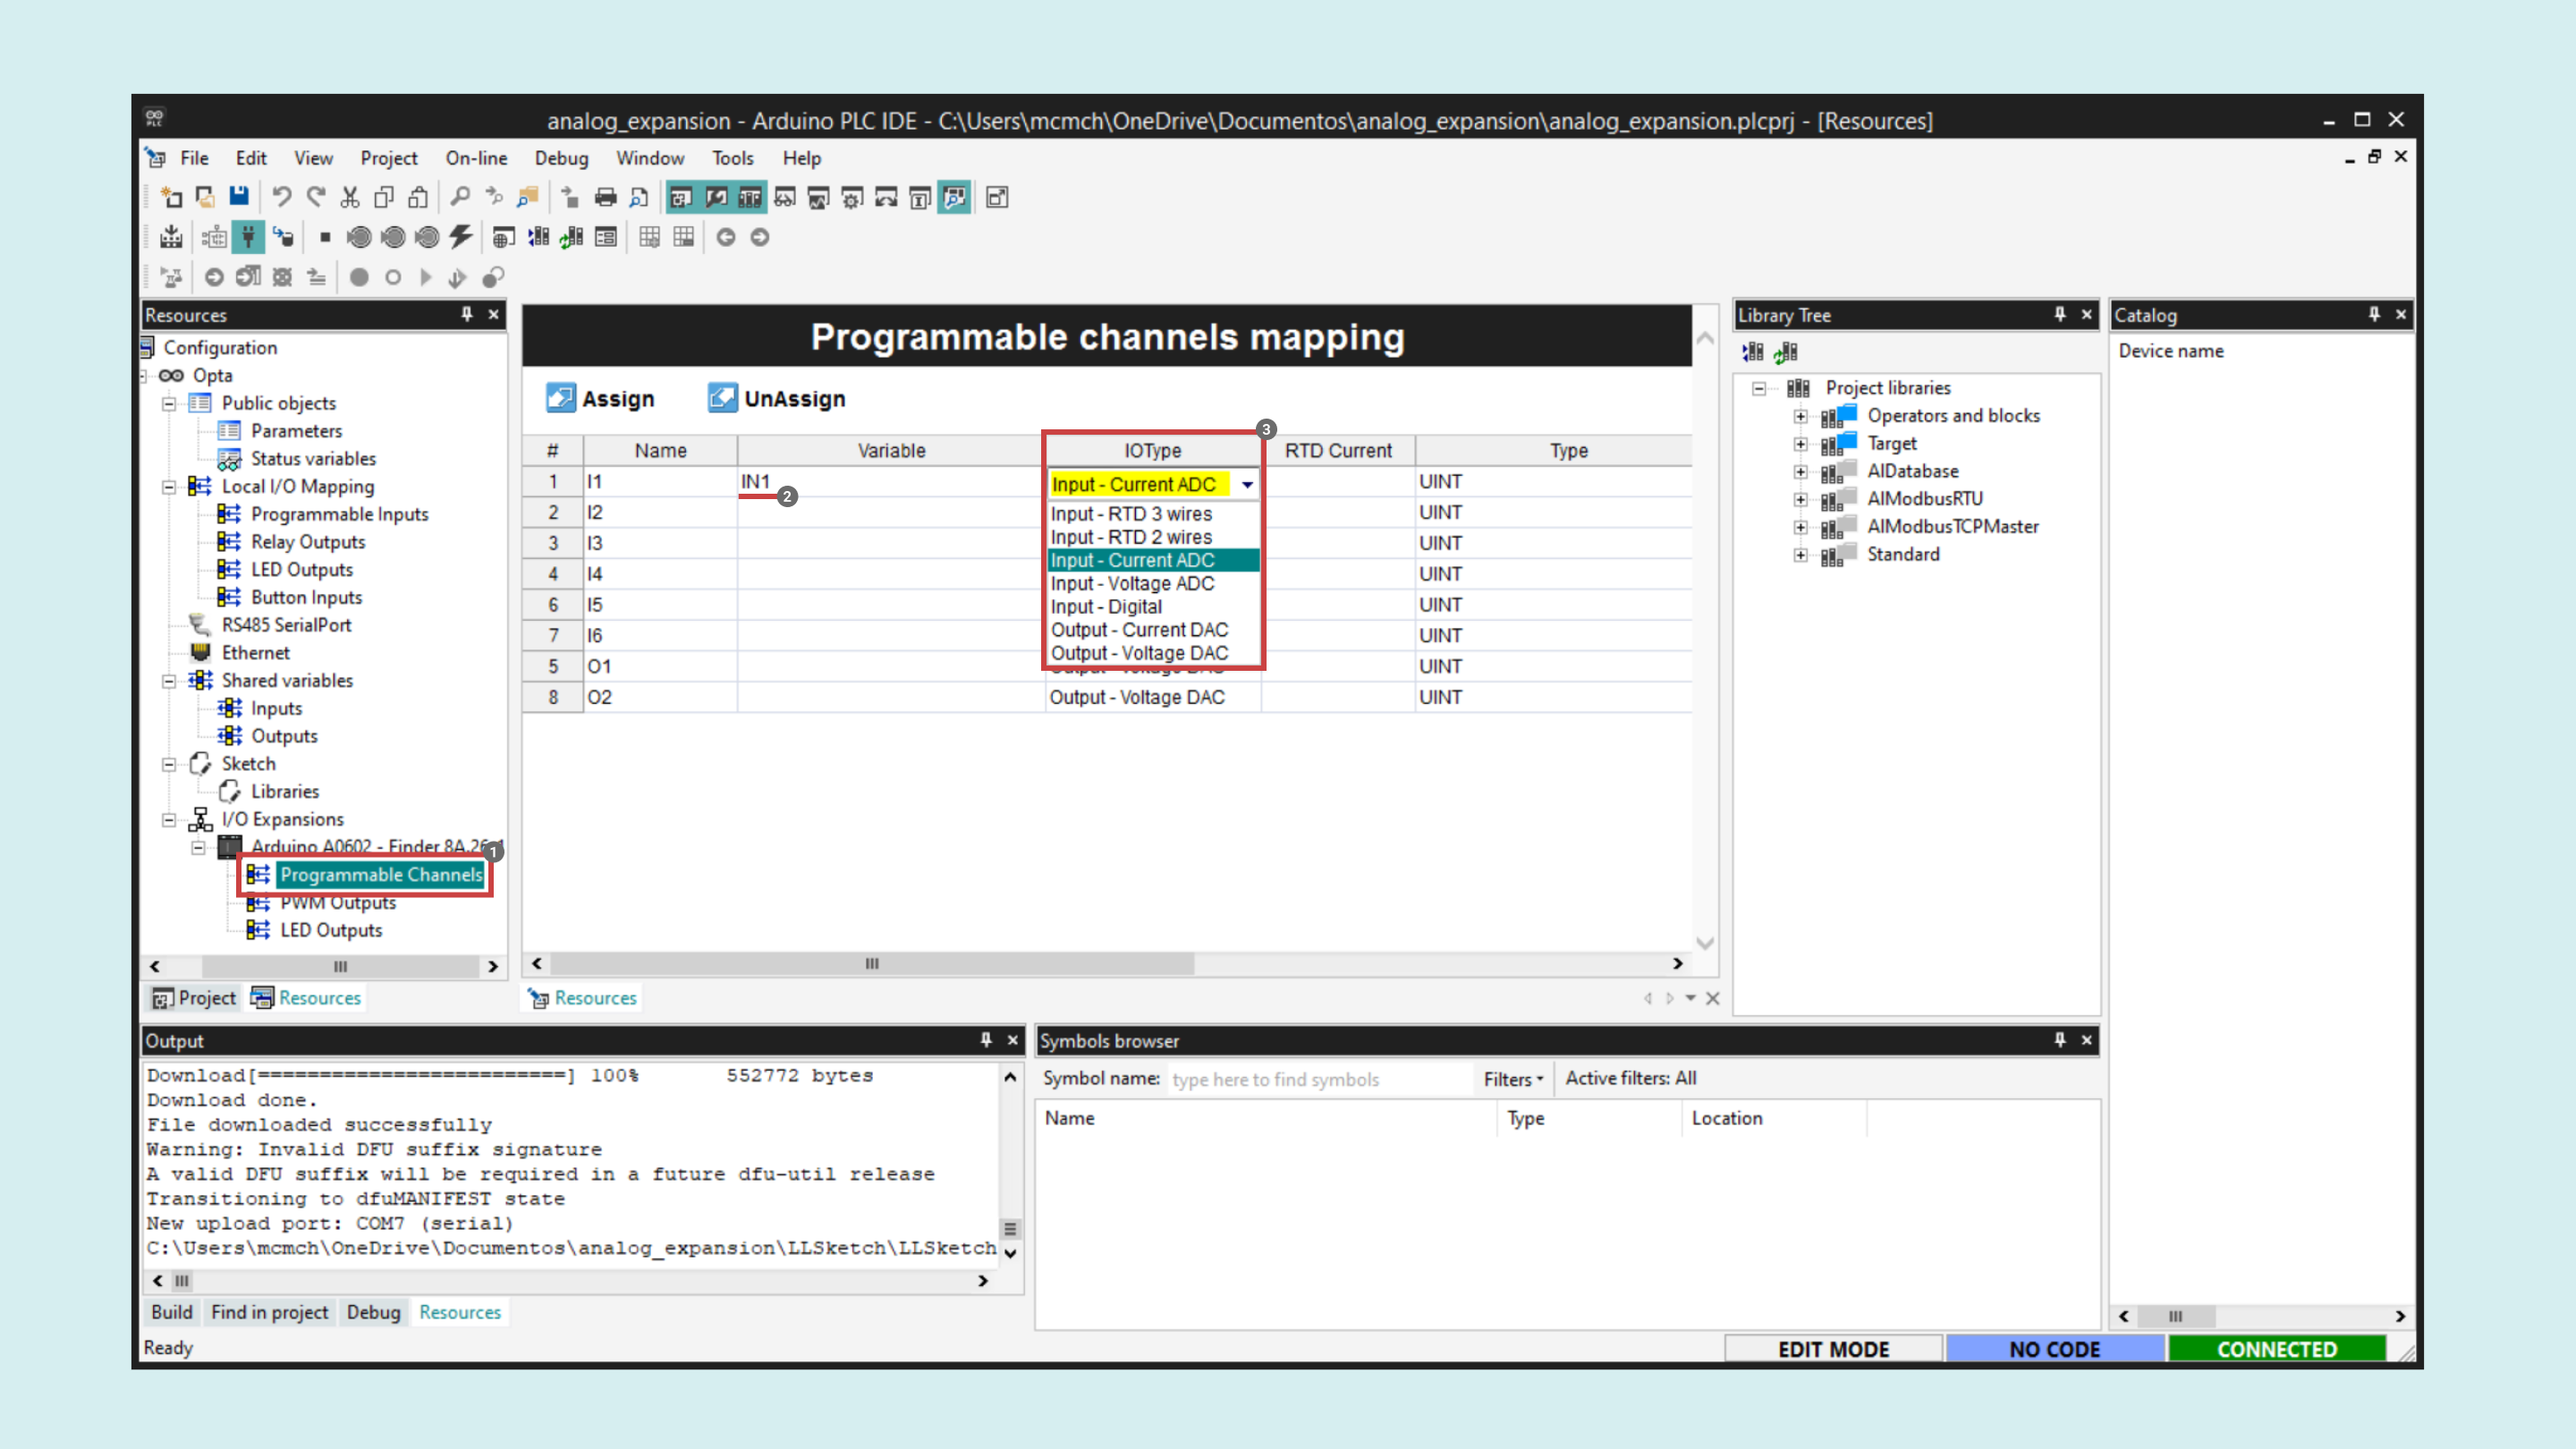
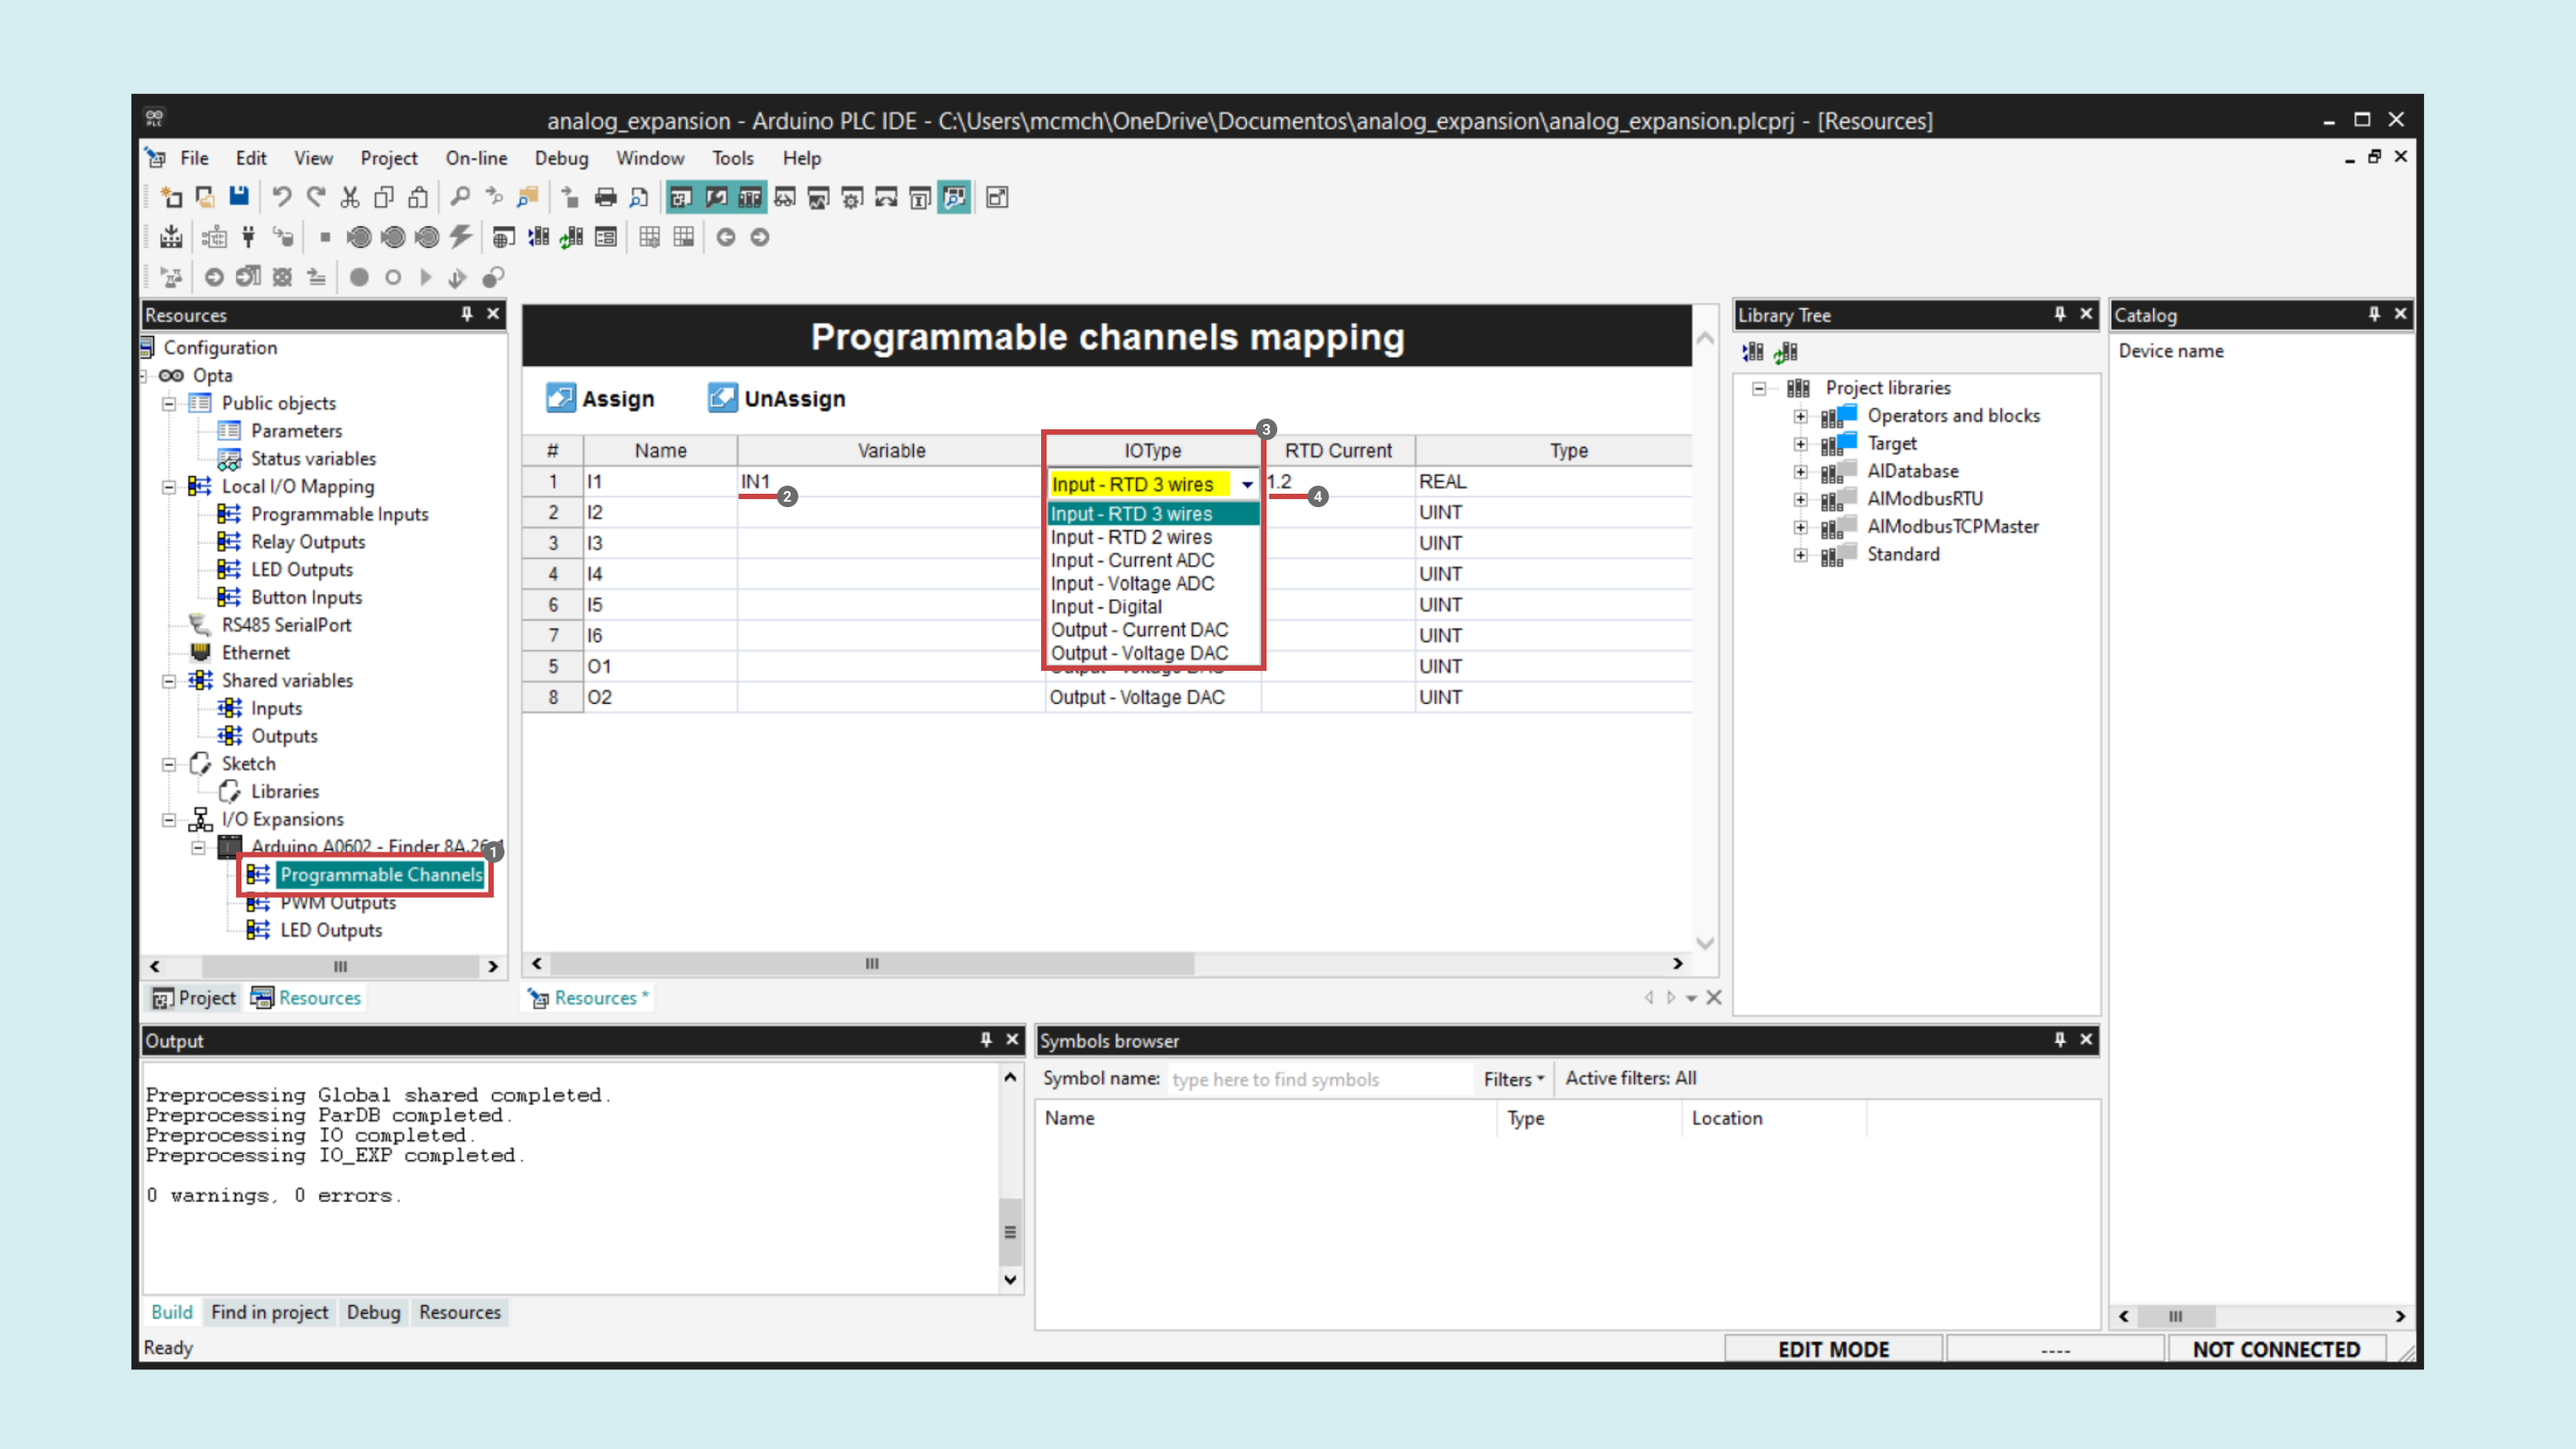
formula for current

diff --git a/content/hardware/07.opta/opta-family/opta/tutorials/18.opta-analog-expansion-plc-ide/content.md b/content/hardware/07.opta/opta-family/opta/tutorials/18.opta-analog-expansion-plc-ide/content.md
@@ -167,7 +167,46 @@ V_IN1 := IN1*10.0/65536.0;
 
 ### Analog Current Input Mode
 
+To set up an input in current mode, navigate to **Programmable Channels** under your desired expansion in the left **Resources** menu. Define a variable name, `IN1` in this case and set the **IOType** to `Input - Current ADC`.
+
+![Current Input Configuration](assets/plc-ide-10.png)
+
+Now you can easily read this input current in your program. For example in a **Structured Language** program:
+
+- Open your project main program navigating to the **Project** tab in the left panel, select **Main** in the project tree, and right-click on the **Local variables** window to insert a variable.
+
+![Insert a local variable](assets/local-var.png)
+
+Insert the following variable with it respective _type_ to store the input voltage:
+
+| **Name** | **Type** |
+| :------: | :------: |
+|  I_IN1   |   REAL   |
+
+![Insert a local variable](assets/local-var-3.png)
+
+- In the main code editor add the following formula to convert the ADC raw reading to a current and store it in the `I_IN1` variable.
+
+```
+I_IN1 := IN1*(5.0/65536.0); 
+I_IN1 := I_IN1 - 2.5;
+I_IN1 := I_IN1 / 100.0;
+I_IN1 := I_IN1 * 1000.0; //convert to mA
+```
+
+***The analog channel in current mode can measure up to 10 VDC and the ADC resolution is 16 bit, this is why we use the 65536 constant that corresponds to 2<sup>16</sup>.***
+
+- Upload the program to your Opta and enable the **Live Debug Mode** to see the analog readings updating in real-time.
+
+![Analog Voltage Input Demo](assets/voltage-in-ani.gif)
+
 ### Analog RTD Input Mode
+
+To set up an input in RTD mode for termperature measurement, navigate to **Programmable Channels** under your desired expansion in the left **Resources** menu. Define a variable name, `IN1` in this case and set the **IOType** to `Input - RTD 3 Wires` or `Input - RTD 2 Wires` .
+
+![Current Input Configuration](assets/plc-ide-11.png)
+
+***Channels I1 and I2 support 3 Wires RTD and 2 Wires RTD, all other channels only support 2 Wires RTD.***
 
 ## Programmable Outputs
 
